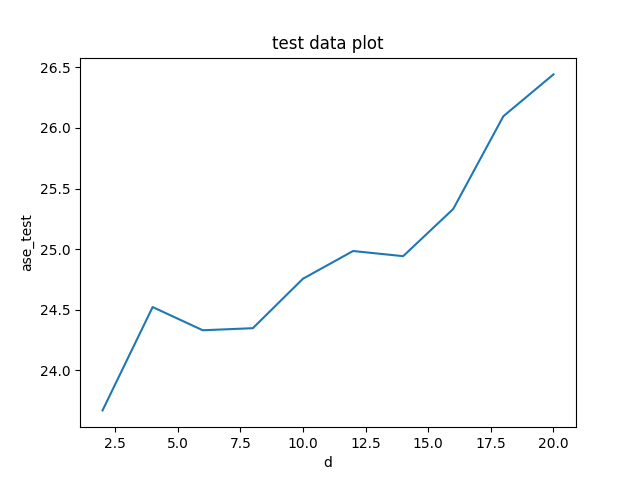
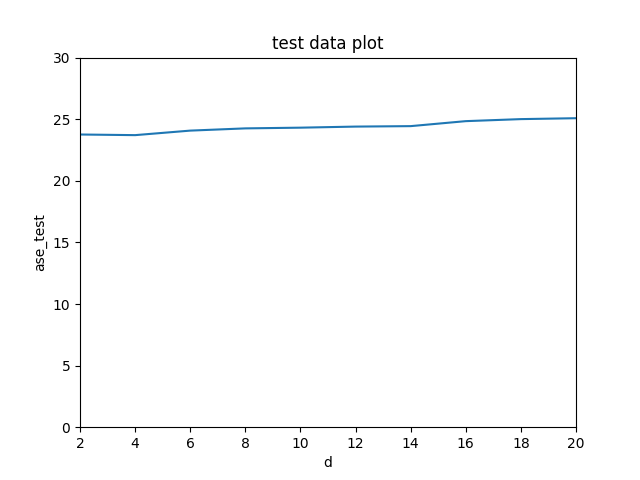
range changed

diff --git a/q1_4.py b/q1_4.py
@@ -90,4 +90,8 @@ if __name__ == '__main__':
     plt.xlabel('d')
     plt.title("test data plot")
     plt.ylabel('ase_test')
+
+    plt.ylim(0,30)
+    plt.xlim(2,20)
+
     plt.savefig("test_plot.png")
